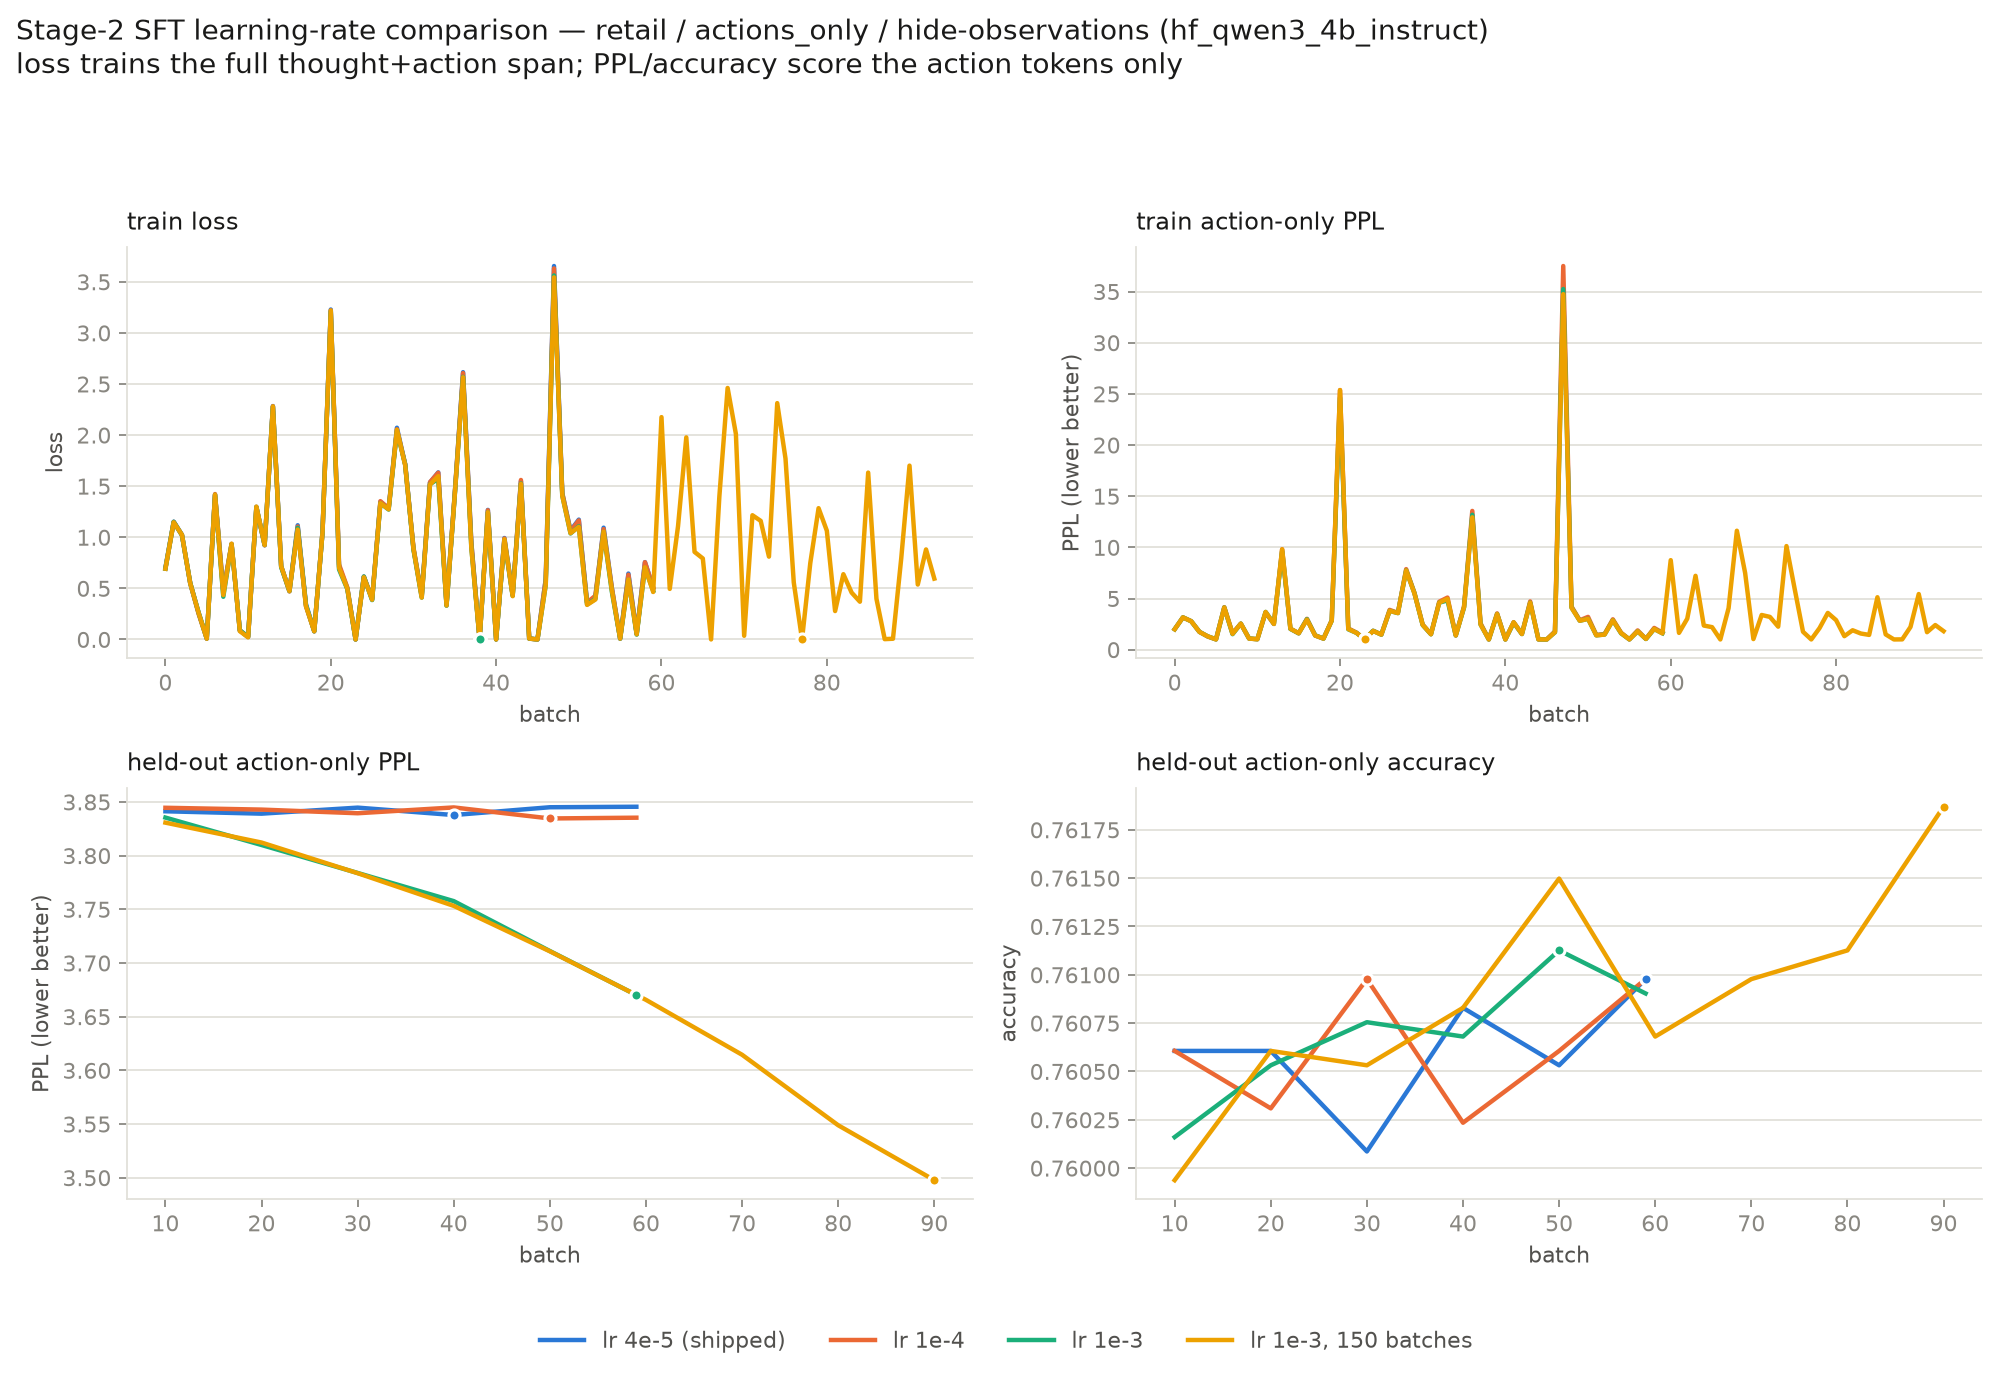
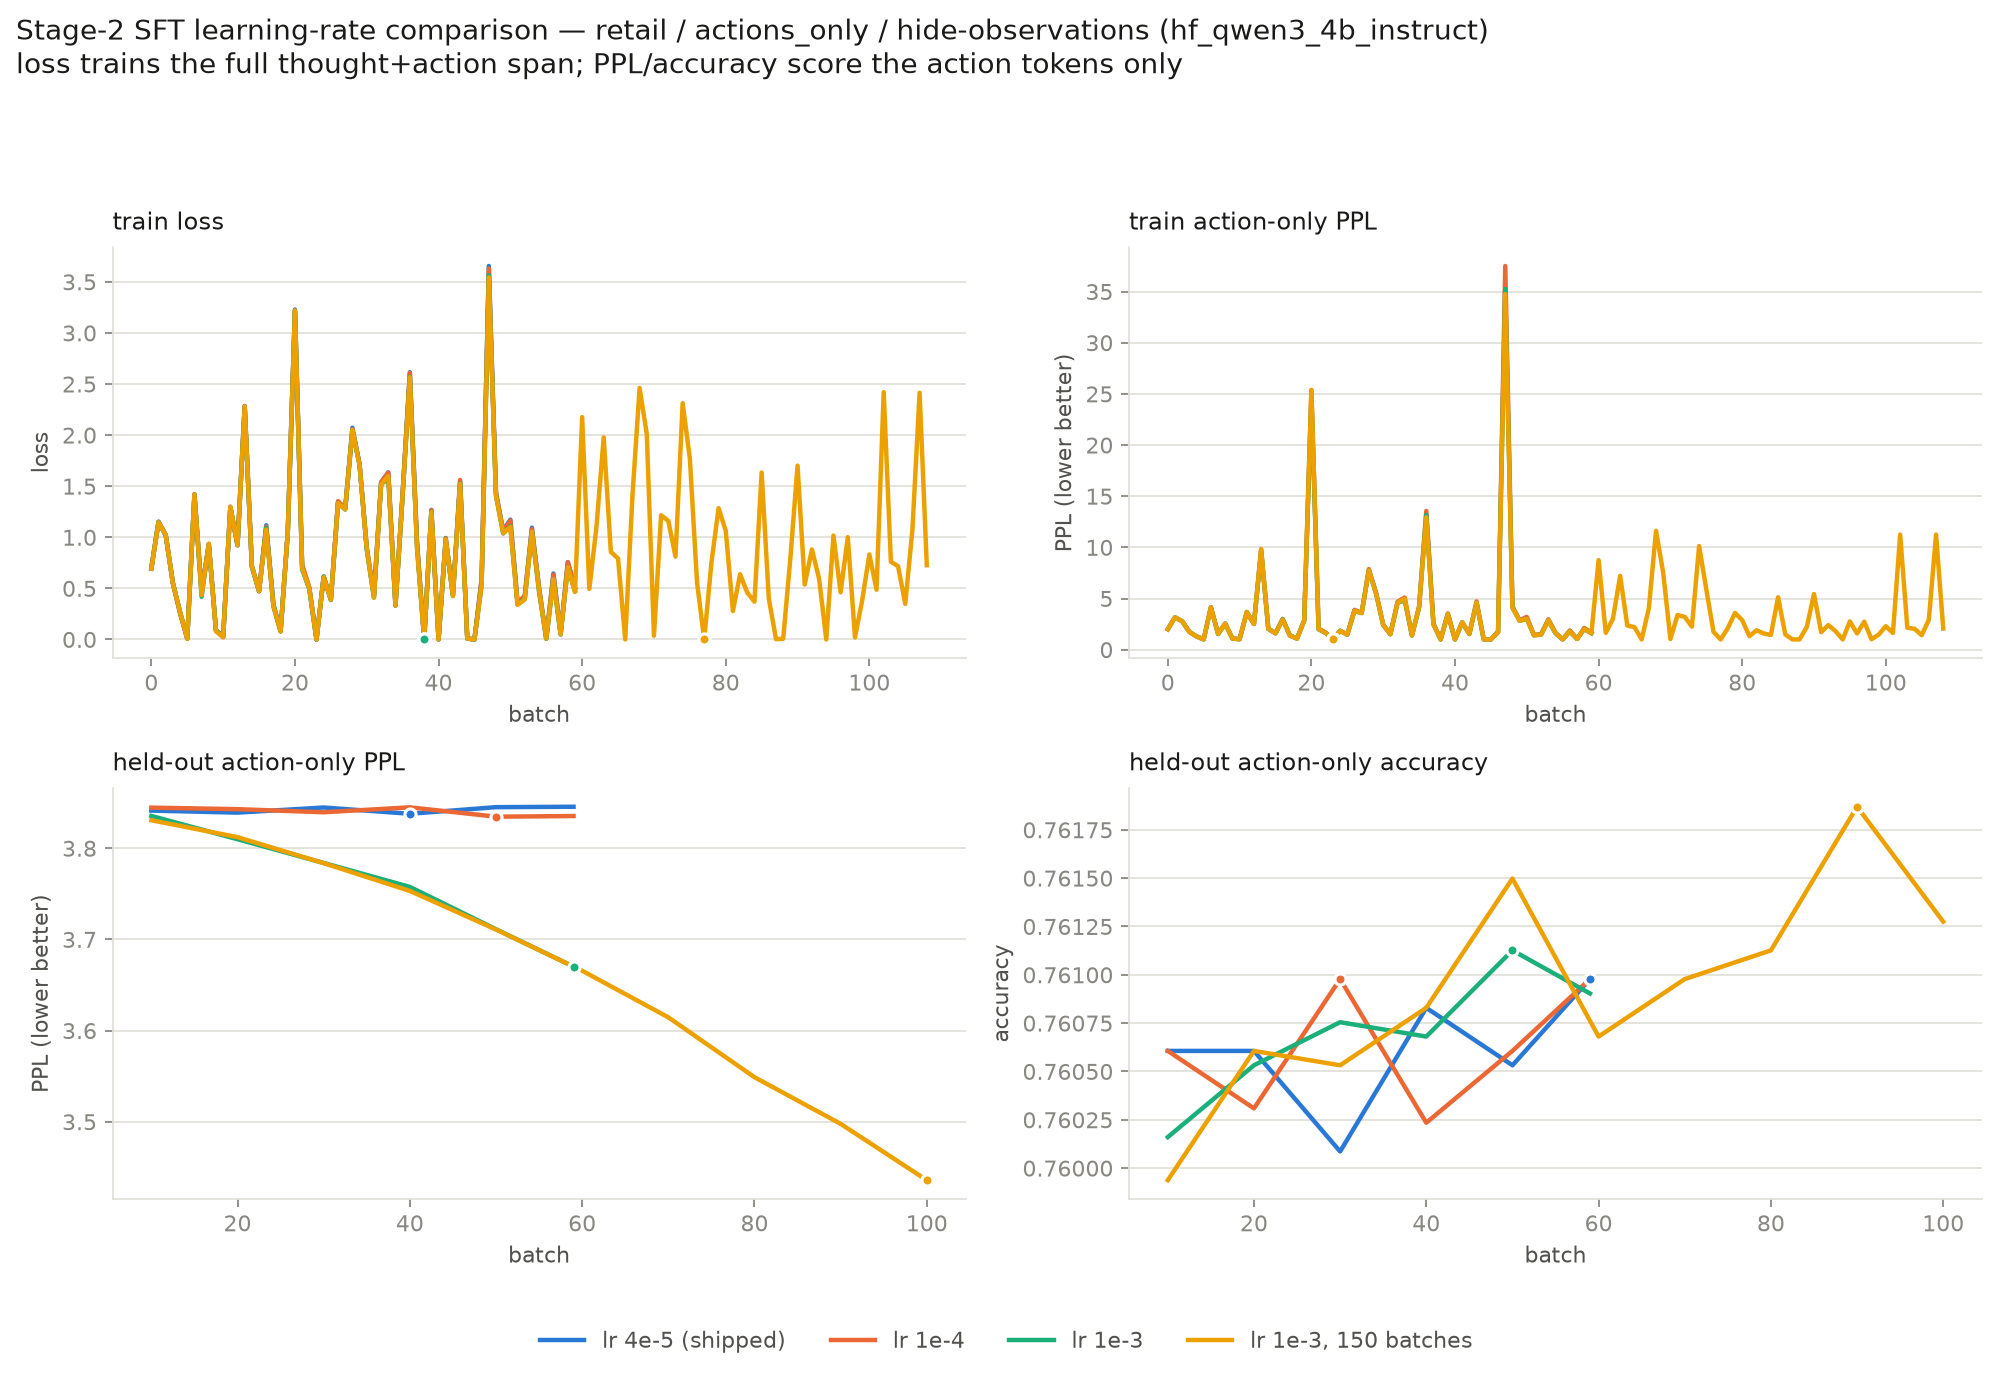
auto: SFT LR sweep results snapshot

diff --git a/notes/cc-3.0-retail_sft_results.md b/notes/cc-3.0-retail_sft_results.md
@@ -20,7 +20,7 @@ for wordiness rather than for mispredicting the action, which inverts the rankin
 | thoughts_base | hide | 3.1735 | 0.7819 | 59 | 3.7098 | 0.7454 | 59 | 0.9361 |
 | thoughts_base | full | 2.9999 | 0.8035 | 30 | 3.4093 | 0.7717 | 59 | 0.6225 |
 | actions_only_lr1e_3 | hide | 3.6702 | 0.7609 | 59 | 3.6702 | 0.7609 | 59 | 0.4756 |
-| actions_only_lr1e_3_nb150 | hide | 3.4977 | 0.7619 | 90 | 3.4977 | 0.7619 | 90 | 0.5953 |
+| actions_only_lr1e_3_nb150 | hide | 3.4359 | 0.7613 | 100 | 3.4359 | 0.7613 | 100 | 0.7269 |
 | actions_only_lr1e_4 | hide | 3.8346 | 0.7606 | 50 | 3.8346 | 0.7606 | 50 | 0.5078 |
 | thoughts_base_last | hide | 3.1928 | 0.7784 | 59 | 3.6738 | 0.7401 | 59 | 0.9956 |
 | thoughts_policy_last | hide | 3.2078 | 0.7825 | 40 | 3.7470 | 0.7390 | 10 | 1.5987 |
@@ -44,7 +44,7 @@ that saved step:
 | thoughts_base | hide | 3.1735 | 0.7819 |
 | thoughts_base | full | 3.0008 | 0.8030 |
 | actions_only_lr1e_3 | hide | 3.6702 | 0.7609 |
-| actions_only_lr1e_3_nb150 | hide | 3.4977 | 0.7619 |
+| actions_only_lr1e_3_nb150 | hide | 3.4359 | 0.7613 |
 | actions_only_lr1e_4 | hide | 3.8346 | 0.7606 |
 | thoughts_base_last | hide | 3.1928 | 0.7784 |
 | thoughts_policy_last | hide | 3.2100 | 0.7810 |

diff --git a/notes/cc-5.0-sft-lr-investigation.md b/notes/cc-5.0-sft-lr-investigation.md
@@ -99,11 +99,11 @@ within-dataset rankings are unaffected. The re-run uses one definition throughou
 arm                                                  reg     b   eval ppl first->last      Δ%     acc  train ao ppl
 ----------------------------------------------------------------------------------------------------------------------
 retail/actions_only_lr1e_3                           hide   59     3.8355 ->   3.6702   4.31%  0.7609        1.6094
-retail/actions_only_lr1e_3_nb150                     hide   93     3.8307 ->   3.4977   8.69%  0.7619        1.8125  <running>
+retail/actions_only_lr1e_3_nb150                     hide  108     3.8307 ->   3.4359  10.31%  0.7613        2.0625  <running>
 
 1/2 arms complete   (Δ% = held-out action-subspan PPL improvement, higher is better)
 ```
-_last refreshed: 2026-08-20 00:40_
+_last refreshed: 2026-08-20 01:00_
 <!--/RESULTS-->
 
 ## Infrastructure
